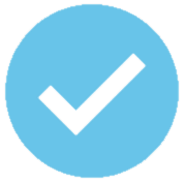
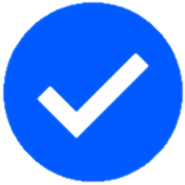
nombres y ordenamiento

diff --git a/index.html b/index.html
@@ -11,7 +11,7 @@
         integrity="sha384-wvfXpqpZZVQGK6TAh5PVlGOfQNHSoD2xbE+QkPxCAFlNEevoEH3Sl0sibVcOQVnN" crossorigin="anonymous">
     <link rel="stylesheet" href="https://cdnjs.cloudflare.com/ajax/libs/materialize/1.0.0/css/materialize.min.css">
     <link rel="stylesheet" href="styles.css">
-    <link rel="icon" id="icon-page" href="logo.png" type="image/x-icon">
+    <link rel="icon" id="icon-page" href="./images/logo.png" type="image/x-icon">
 </head>
 
 <body>
@@ -104,38 +104,25 @@
                 <div id="carta" class="card">
                     <div class="card-content white-text">
                         <span class="card-title">PROCESOS</span>
-                        <p>Nos encargamos de ayudar a las empresas a mejorar y optimizar sus procesos internos con el
-                            fin de lograr una mayor eficiencia y productividad. Esto se logra a través de un enfoque en
-                            la identificación y análisis de los procesos actuales, la identificación de áreas de mejora
-                            y la implementación de soluciones personalizadas para cada empresa. Trabajamos con un
-                            enfoque en la mejora continua, y su objetivo final es ayudar a lograr una mayor rentabilidad
-                            y una mejora en la satisfacción de sus clientes y empleados.</p>
+                        <p>Brindamos soluciones enfocadas en mejorar y optimizar procesos internos con el fin de lograr
+                            una mayor eficiencia y productividad.</p>
                     </div>
                 </div>
 
                 <div id="carta" class="card">
                     <div class="card-content white-text">
-                        <span class="card-title">FINANZAS</span>
-                        <p>Nuestros servicios están diseñados para ayudar a las empresas a mejorar su situación
-                            financiera y a tomar decisiones informadas sobre el manejo de sus recursos financieros. Esto
-                            incluye servicios como la optimización de la estructura de capital, la planificación
-                            financiera a largo plazo, la gestión de riesgos financieros y la mejora de la eficiencia y
-                            transparencia en la gestión de finanzas. Trabajamos con cada empresa para identificar sus
-                            objetivos financieros específicos y desarrollar un plan de acción personalizado para
-                            lograrlos.</p>
+                        <span class="card-title">EVALUACIÓN Y GESTIÓN DE PROYECTOS</span>
+                        <p>Evaluar la viabilidad técnica, económica y financiera de tu proyecto, como así también te
+                            acompañamos en el proceso de implementación.</p>
                     </div>
                 </div>
 
                 <div id="carta" class="card">
                     <div class="card-content white-text">
                         <span class="card-title">MARKETING</span>
-                        <p>Estos servicios están diseñados para ayudar a las empresas a mejorar su presencia en el
-                            mercado y a alcanzar sus objetivos de marketing. Esto incluye servicios como la
-                            investigación de mercado, el desarrollo de estrategias de marketing, la implementación de
-                            campañas publicitarias y la evaluación de su efectividad. Trabajamos con cada empresa para
-                            entender su mercado objetivo y desarrollar un plan de acción personalizado para alcanzar sus
-                            objetivos de marketing. Con nuestra experiencia y conocimiento en marketing, ayudamos a las
-                            empresas a mejorar su presencia en el mercado y atraer más clientes.</p>
+                        <p>Ofrecemos soluciones para incrementar la presencia en el mercado objetivo, desarrollando
+                            planes y estrategias de marketing a medida y te asesoramos en la implementación de los
+                            mismos.</p>
                     </div>
                 </div>
             </div>
@@ -207,7 +194,7 @@
                 <div style="display: flex; justify-content: center; flex-wrap: wrap;">
                     <div class="card">
                         <div class="card-image">
-                            <img src="./images/soluciones-personalizadas.webp">
+                            <img src="./images/soluciones-personalizadas.jpg">
                         </div>
                         <div class="card-content center">
                             <span class="card-title flow-text">Soluciones personalizadas</span>
@@ -251,7 +238,7 @@
             <div id="contacto-content" class="center">
                 <h4 id="titulo">Contactate con nosotros</h4>
                 <p style="font-family: alata;">Escribenos y en breve nos pondremos en contacto contigo</p>
-                <img src="./images/contacto.jpg" alt="" style="width: 100%;">
+                <img src="./images/contacto.jpg" alt="contacto" style="width: 100%;">
             </div>
 
             <div class="row" style="margin: 0px;">

diff --git a/styles.css b/styles.css
@@ -1,3 +1,5 @@
+/* color sugerido #005aff */
+/* scroll suavizado */
 html {
     scroll-behavior: smooth;
 }
@@ -60,6 +62,7 @@ section {
     width: 40%;
     max-width: 600px;
     height: auto;
+    /* sombra */
     -webkit-box-shadow: 15px 15px 10px 0px rgba(0, 0, 0, 0.75);
     -moz-box-shadow: 15px 15px 10px 0px rgba(0, 0, 0, 0.75);
     box-shadow: 15px 15px 10px 0px rgba(0, 0, 0, 0.75);
@@ -144,7 +147,7 @@ footer .container p {
     margin-right: 20px;
 }
 
-
+/* animacion de aparicion */
 @keyframes fadeInAnimation {
     0% {
         opacity: 0;
@@ -207,6 +210,7 @@ footer .container p {
     }
 }
 
+/* latidos de boton de WhatsApp */
 @keyframes latidos {
     from {
         transform: none;
@@ -221,6 +225,7 @@ footer .container p {
     }
 }
 
+/* animacion de aparicion desde abajo hacia arriba */
 .reveal {
     position: relative;
     transform: translateY(150px);
